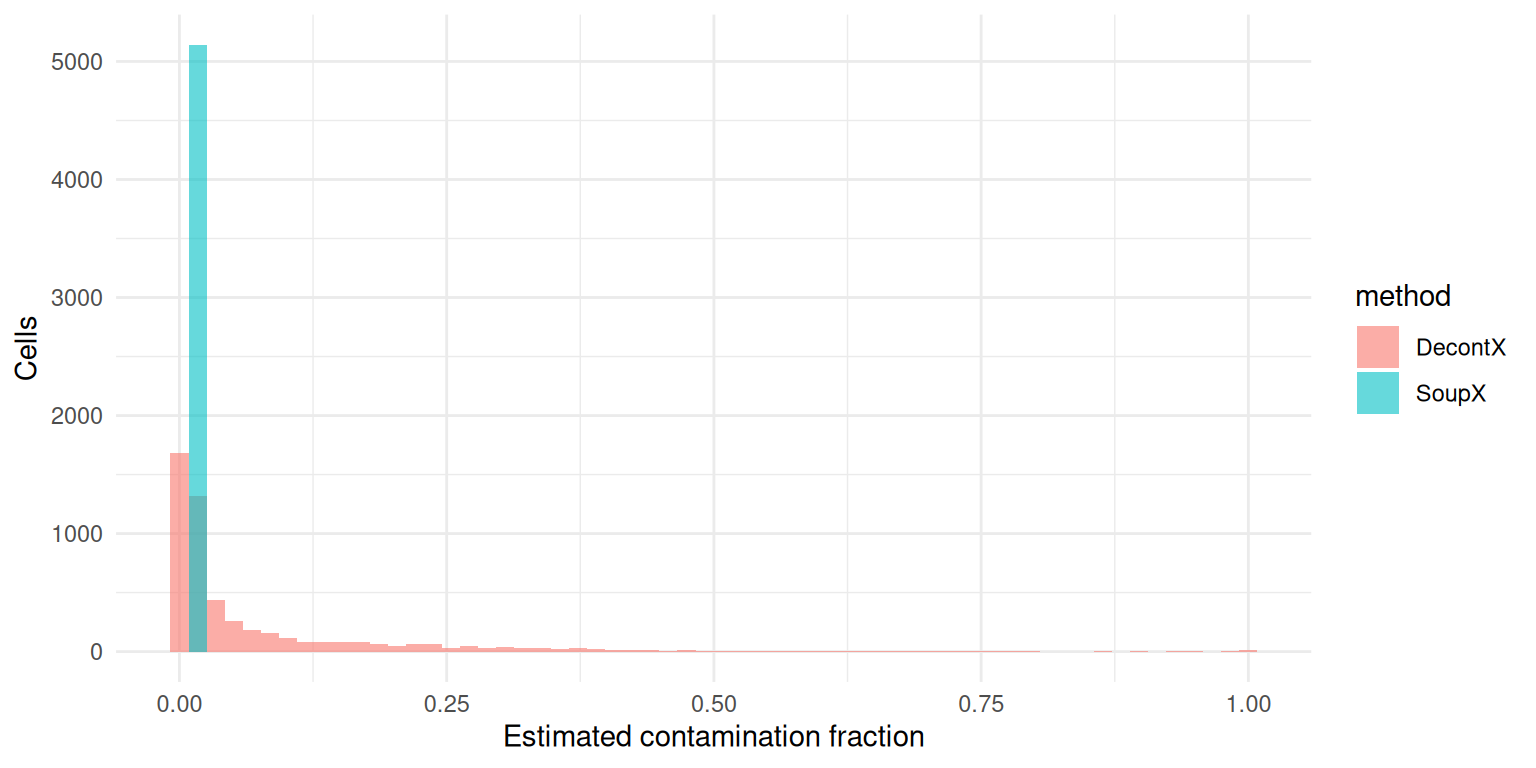
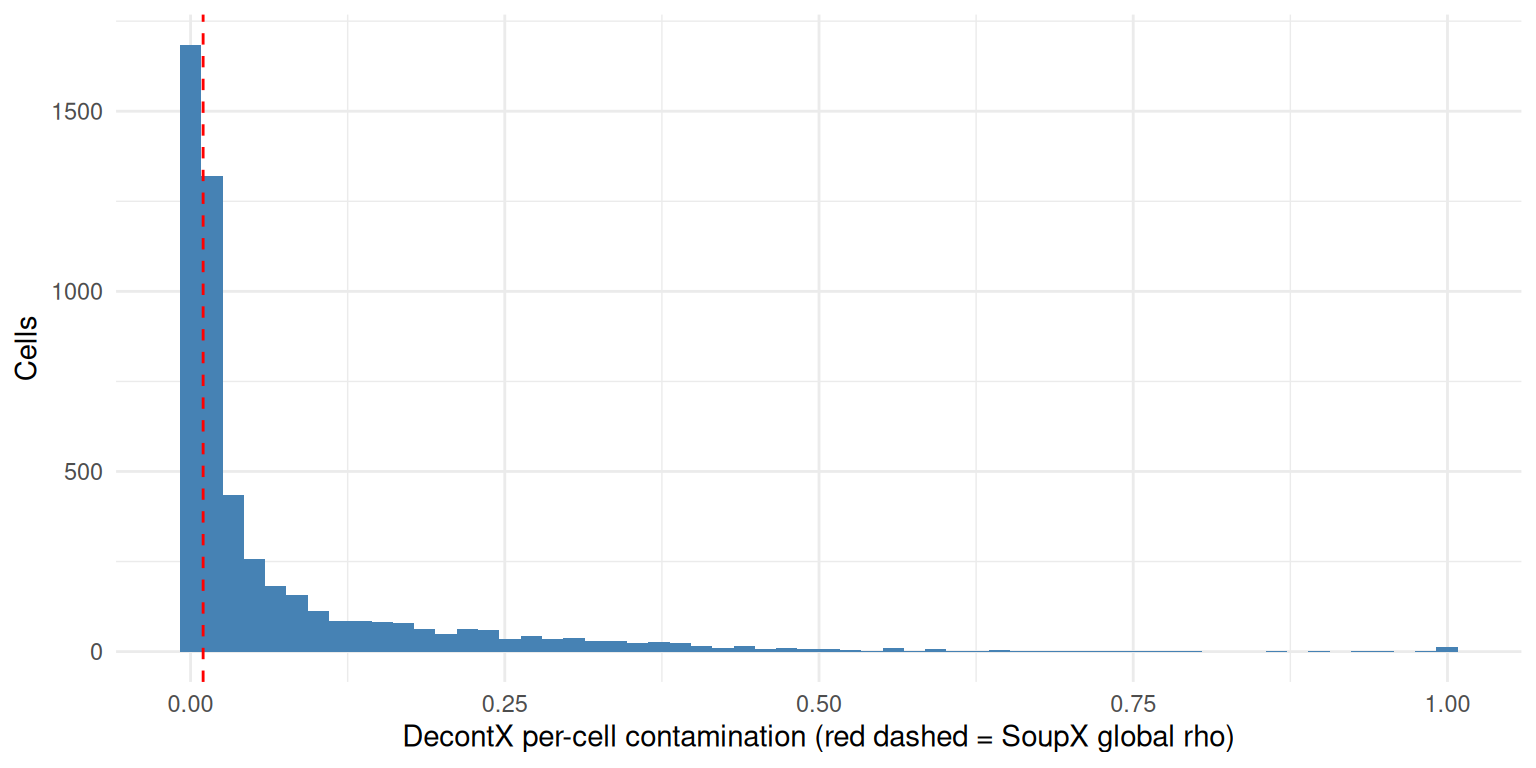
Build site.

diff --git a/docs/ambient.html b/docs/ambient.html
@@ -520,15 +520,15 @@ project makes it easier to run your code on other machines.</p>
 <div class="panel panel-default">
 <div class="panel-heading">
 <p class="panel-title">
-<a data-toggle="collapse" data-parent="#workflowr-checks" href="#strongRepositoryversionstrongahrefhttpsgithubcomdavetangmusetree2817957b28f6891240f2576c1bffb291cb8272cdtargetblank2817957a">
+<a data-toggle="collapse" data-parent="#workflowr-checks" href="#strongRepositoryversionstrongahrefhttpsgithubcomdavetangmusetree13ee82757c33abe29c14af191be418310f1891e0targetblank13ee827a">
 <span class="glyphicon glyphicon-ok text-success"
 aria-hidden="true"></span> <strong>Repository version:</strong>
-<a href="https://github.com/davetang/muse/tree/2817957b28f6891240f2576c1bffb291cb8272cd" target="_blank">2817957</a>
+<a href="https://github.com/davetang/muse/tree/13ee82757c33abe29c14af191be418310f1891e0" target="_blank">13ee827</a>
 </a>
 </p>
 </div>
 <div
[2 lines of base64/hex data omitted]
 class="panel-collapse collapse">
 <div class="panel-body">
 <p>
@@ -538,7 +538,7 @@ reproducibility.
 </p>
 <p>
 The results in this page were generated with repository version
-<a href="https://github.com/davetang/muse/tree/2817957b28f6891240f2576c1bffb291cb8272cd" target="_blank">2817957</a>.
+<a href="https://github.com/davetang/muse/tree/13ee82757c33abe29c14af191be418310f1891e0" target="_blank">13ee827</a>.
 See the <em>Past versions</em> tab to see a history of the changes made
 to the R Markdown and HTML files.
 </p>
@@ -669,6 +669,40 @@ Message
 Rmd
 </td>
 <td>
+<a href="https://github.com/davetang/muse/blob/13ee82757c33abe29c14af191be418310f1891e0/analysis/ambient.Rmd" target="_blank">13ee827</a>
+</td>
+<td>
+Dave Tang
+</td>
+<td>
+2026-04-27
+</td>
+<td>
+Remove rho comparison
+</td>
+</tr>
+<tr>
+<td>
+html
+</td>
+<td>
+<a href="https://rawcdn.githack.com/davetang/muse/9ffee01b53139d0d6335e4eb5463fa250aa786ab/docs/ambient.html" target="_blank">9ffee01</a>
+</td>
+<td>
+Dave Tang
+</td>
+<td>
+2026-04-27
+</td>
+<td>
+Build site.
+</td>
+</tr>
+<tr>
+<td>
+Rmd
+</td>
+<td>
 <a href="https://github.com/davetang/muse/blob/2817957b28f6891240f2576c1bffb291cb8272cd/analysis/ambient.Rmd" target="_blank">2817957</a>
 </td>
 <td>
@@ -708,10 +742,13 @@ version run in the companion notebook additionally uses the raw matrix
 as an empirical anchor for the ambient distribution.</li>
 </ul>
 <p>Both methods produce a corrected count matrix of the same shape as
-the input filtered matrix, plus a per-cell contamination fraction in
-<code>[0, 1]</code>. We can therefore line up the two outputs
-cell-by-cell and gene-by-gene to see where they agree and where they
-diverge.</p>
+the input filtered matrix. They differ in how they parameterise
+contamination: DecontX produces a per-cell contamination fraction;
+SoupX’s <code>autoEstCont()</code> produces a single global value that
+is applied to every cell. The most informative comparison is therefore
+at the level of the corrections themselves — UMIs removed per cell, UMIs
+removed per gene, and the (cell × gene) corrected matrix — rather than
+the contamination fractions.</p>
 </div>
 <div id="packages" class="section level2">
 <h2>Packages</h2>
@@ -753,48 +790,82 @@ decontx$counts &lt;- decontx$counts[, common_cells]
 soupx$meta     &lt;- soupx$meta[common_cells, ]
 decontx$meta   &lt;- decontx$meta[common_cells, ]</code></pre>
 </div>
-<div id="per-cell-contamination-fraction" class="section level2">
-<h2>Per-cell contamination fraction</h2>
-<p>The most direct comparison is the per-cell contamination fraction.
-SoupX estimates this via <code>autoEstCont()</code> and stores it in
-<code>sc$metaData$rho</code>; DecontX produces it as
-<code>colData(sce)$decontX_contamination</code>. Both are bounded in
-<code>[0, 1]</code>.</p>
+<div id="contamination-fractions" class="section level2">
+<h2>Contamination fractions</h2>
+<p>It is tempting to start by comparing the per-cell contamination
+fractions reported by each method, but the two methods don’t actually
+produce comparable quantities here. DecontX returns a true per-cell
+estimate in <code>colData(sce)$decontX_contamination</code>. SoupX’s
+<code>autoEstCont()</code>, by contrast, fits a contamination fraction
+per cluster, averages across clusters, and then calls
+<code>setContaminationFraction()</code> with a <em>single</em> global
+value — so every cell in <code>sc$metaData$rho</code> ends up with the
+same number:</p>
 <pre class="r"><code>summary(soupx$meta$rho)</code></pre>
 <pre><code>   Min. 1st Qu.  Median    Mean 3rd Qu.    Max. 
    0.01    0.01    0.01    0.01    0.01    0.01 </code></pre>
+<pre class="r"><code>length(unique(soupx$meta$rho))</code></pre>
+<pre><code>[1] 1</code></pre>
 <pre class="r"><code>summary(decontx$meta$rho)</code></pre>
 <pre><code>     Min.   1st Qu.    Median      Mean   3rd Qu.      Max. 
 2.368e-05 6.639e-03 1.614e-02 6.977e-02 7.397e-02 9.995e-01 </code></pre>
-<pre class="r"><code>rho_long &lt;- rbind(
-  data.frame(method = &quot;SoupX&quot;,   rho = soupx$meta$rho),
-  data.frame(method = &quot;DecontX&quot;, rho = decontx$meta$rho)
-)
-
-ggplot(rho_long, aes(rho, fill = method)) +
-  geom_histogram(bins = 60, alpha = 0.6, position = &quot;identity&quot;) +
-  labs(x = &quot;Estimated contamination fraction&quot;, y = &quot;Cells&quot;) +
+<p>A direct cell-by-cell rho-rho scatter is therefore degenerate (it
+would be a vertical line at the SoupX global rho). Showing the DecontX
+distribution alone is still informative — it tells us how much
+heterogeneity DecontX sees in contamination across cells, on top of
+whatever common level SoupX assumes:</p>
+<pre class="r"><code>ggplot(decontx$meta, aes(rho)) +
+  geom_histogram(bins = 60, fill = &quot;steelblue&quot;) +
+  geom_vline(xintercept = soupx$meta$rho[1],
+             colour = &quot;red&quot;, linetype = &quot;dashed&quot;) +
+  labs(
+    x = &quot;DecontX per-cell contamination (red dashed = SoupX global rho)&quot;,
+    y = &quot;Cells&quot;
+  ) +
   theme_minimal()</code></pre>
 <p><img src="figure/ambient.Rmd/rho_hist-1.png" alt="" width="768" style="display: block; margin: auto;" /></p>
-<p>A scatter plot of the two estimates per cell shows whether the
-methods agree on which cells are most contaminated. A diagonal trend
-means they agree on the relative ranking; the absolute level often
-differs because the two estimators use different priors and different
-anchors for the ambient distribution.</p>
-<pre class="r"><code>ggplot(
-  data.frame(soupx = soupx$meta$rho, decontx = decontx$meta$rho),
-  aes(soupx, decontx)
-) +
-  geom_point(size = 0.3, alpha = 0.4) +
-  geom_abline(slope = 1, intercept = 0, colour = &quot;red&quot;) +
-  coord_equal(xlim = c(0, 1), ylim = c(0, 1)) +
-  labs(x = &quot;SoupX rho&quot;, y = &quot;DecontX contamination&quot;) +
-  theme_minimal()</code></pre>
-<p><img src="figure/ambient.Rmd/rho_scatter-1.png" alt="" width="480" style="display: block; margin: auto;" /></p>
-<pre class="r"><code>cor(soupx$meta$rho, decontx$meta$rho, method = &quot;spearman&quot;)</code></pre>
-<pre><code>Warning in cor(soupx$meta$rho, decontx$meta$rho, method = &quot;spearman&quot;): the
-standard deviation is zero</code></pre>
-<pre><code>[1] NA</code></pre>
+<p>
+<button type="button" class="btn btn-default btn-xs btn-workflowr btn-workflowr-fig" data-toggle="collapse" data-target="#fig-rho_hist-1">
+Past versions of rho_hist-1.png
+</button>
+</p>
+<div id="fig-rho_hist-1" class="collapse">
+<div class="table-responsive">
+<table class="table table-condensed table-hover">
+<thead>
+<tr>
+<th>
+Version
+</th>
+<th>
+Author
+</th>
+<th>
+Date
+</th>
+</tr>
+</thead>
+<tbody>
+<tr>
+<td>
+<a href="https://github.com/davetang/muse/blob/9ffee01b53139d0d6335e4eb5463fa250aa786ab/docs/figure/ambient.Rmd/rho_hist-1.png" target="_blank">9ffee01</a>
+</td>
+<td>
+Dave Tang
+</td>
+<td>
+2026-04-27
+</td>
+</tr>
+</tbody>
+</table>
+</div>
+</div>
+<p>For an actual head-to-head comparison we should look at the
+corrections themselves — the UMIs each method removed from each cell and
+from each gene — which are per-cell and per-gene for both methods
+regardless of how the underlying contamination fraction was
+parameterised.</p>
 </div>
 <div id="per-cell-umis-removed" class="section level2">
 <h2>Per-cell UMIs removed</h2>
@@ -818,6 +889,43 @@ ggplot(
        y = &quot;DecontX UMIs removed (per cell)&quot;) +
   theme_minimal()</code></pre>
 <p><img src="figure/ambient.Rmd/umi_removed-1.png" alt="" width="480" style="display: block; margin: auto;" /></p>
+<p>
+<button type="button" class="btn btn-default btn-xs btn-workflowr btn-workflowr-fig" data-toggle="collapse" data-target="#fig-umi_removed-1">
+Past versions of umi_removed-1.png
+</button>
+</p>
+<div id="fig-umi_removed-1" class="collapse">
+<div class="table-responsive">
+<table class="table table-condensed table-hover">
+<thead>
+<tr>
+<th>
+Version
+</th>
+<th>
+Author
+</th>
+<th>
+Date
+</th>
+</tr>
+</thead>
+<tbody>
+<tr>
+<td>
+<a href="https://github.com/davetang/muse/blob/9ffee01b53139d0d6335e4eb5463fa250aa786ab/docs/figure/ambient.Rmd/umi_removed-1.png" target="_blank">9ffee01</a>
+</td>
+<td>
+Dave Tang
+</td>
+<td>
+2026-04-27
+</td>
+</tr>
+</tbody>
+</table>
+</div>
+</div>
 </div>
 <div id="per-gene-removal" class="section level2">
 <h2>Per-gene removal</h2>
@@ -901,6 +1009,43 @@ per-gene removal:</p>
        y = &quot;DecontX UMIs removed per gene (+1)&quot;) +
   theme_minimal()</code></pre>
 <p><img src="figure/ambient.Rmd/gene_scatter-1.png" alt="" width="480" style="display: block; margin: auto;" /></p>
+<p>
+<button type="button" class="btn btn-default btn-xs btn-workflowr btn-workflowr-fig" data-toggle="collapse" data-target="#fig-gene_scatter-1">
+Past versions of gene_scatter-1.png
+</button>
+</p>
+<div id="fig-gene_scatter-1" class="collapse">
+<div class="table-responsive">
+<table class="table table-condensed table-hover">
+<thead>
+<tr>
+<th>
+Version
+</th>
+<th>
+Author
+</th>
+<th>
+Date
+</th>
+</tr>
+</thead>
+<tbody>
+<tr>
+<td>
+<a href="https://github.com/davetang/muse/blob/9ffee01b53139d0d6335e4eb5463fa250aa786ab/docs/figure/ambient.Rmd/gene_scatter-1.png" target="_blank">9ffee01</a>
+</td>
+<td>
+Dave Tang
+</td>
+<td>
+2026-04-27
+</td>
+</tr>
+</tbody>
+</table>
+</div>
+</div>
 </div>
 <div id="marker-genes" class="section level2">
 <h2>Marker genes</h2>
@@ -956,6 +1101,43 @@ ggplot(data.frame(r = cell_cor), aes(r)) +
        y = &quot;Cells&quot;) +
   theme_minimal()</code></pre>
 <p><img src="figure/ambient.Rmd/per_cell_correlation-1.png" alt="" width="576" style="display: block; margin: auto;" /></p>
+<p>
+<button type="button" class="btn btn-default btn-xs btn-workflowr btn-workflowr-fig" data-toggle="collapse" data-target="#fig-per_cell_correlation-1">
+Past versions of per_cell_correlation-1.png
+</button>
+</p>
+<div id="fig-per_cell_correlation-1" class="collapse">
+<div class="table-responsive">
+<table class="table table-condensed table-hover">
+<thead>
+<tr>
+<th>
+Version
+</th>
+<th>
+Author
+</th>
+<th>
+Date
+</th>
+</tr>
+</thead>
+<tbody>
+<tr>
+<td>
+<a href="https://github.com/davetang/muse/blob/9ffee01b53139d0d6335e4eb5463fa250aa786ab/docs/figure/ambient.Rmd/per_cell_correlation-1.png" target="_blank">9ffee01</a>
+</td>
+<td>
+Dave Tang
+</td>
+<td>
+2026-04-27
+</td>
+</tr>
+</tbody>
+</table>
+</div>
+</div>
 <pre class="r"><code>summary(cell_cor)</code></pre>
 <pre><code>    Min.  1st Qu.   Median     Mean  3rd Qu.     Max. 
 0.005074 0.999209 0.999972 0.992423 0.999993 1.000000 </code></pre>
@@ -966,9 +1148,11 @@ ggplot(data.frame(r = cell_cor), aes(r)) +
 <li>The two methods typically agree on the <em>identity</em> of the
 most-contaminated genes — haemoglobin and immunoglobulin transcripts
 dominate both top-removed lists for PBMC preps.</li>
-<li>They agree less precisely on the <em>magnitude</em> of the per-cell
-contamination fraction, because they use different priors and different
-anchors for the ambient distribution.</li>
+<li>They differ in how they parameterise contamination: SoupX’s
+<code>autoEstCont()</code> collapses to a single global rho, while
+DecontX produces a per-cell rho. The interesting per-cell heterogeneity
+in this dataset therefore only shows up in the DecontX
+distribution.</li>
 <li>For routine PBMC analysis the choice between SoupX and DecontX is
 rarely critical; for sorted samples or unusual tissue preparations where
 the empty-droplet population may not represent the full ambient pool,
